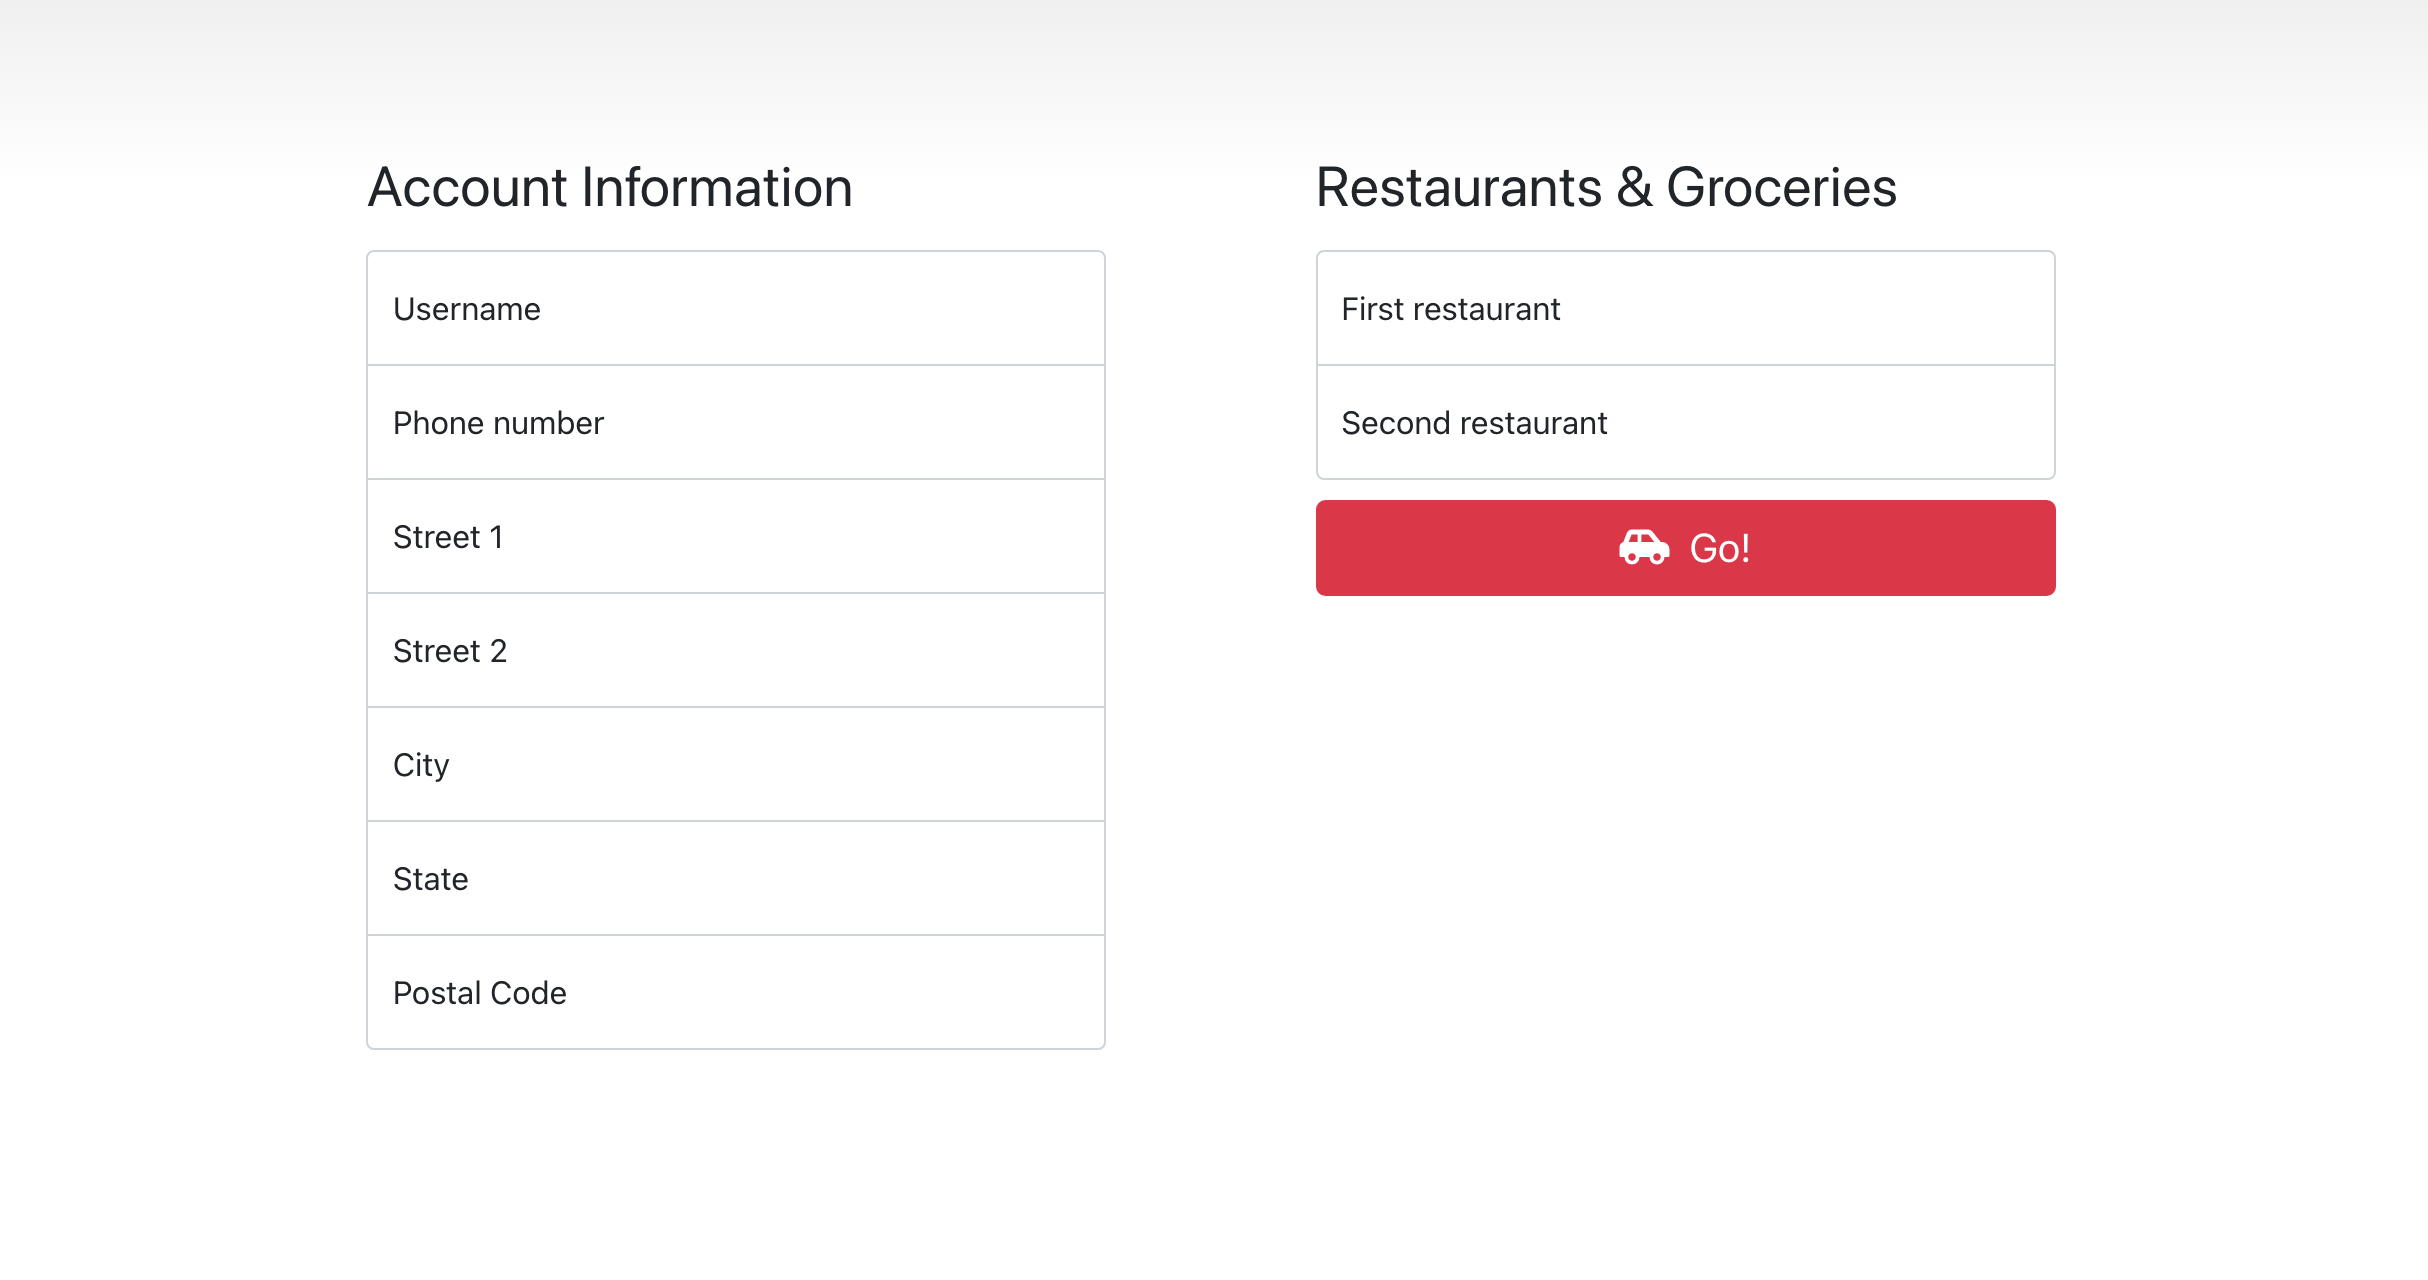
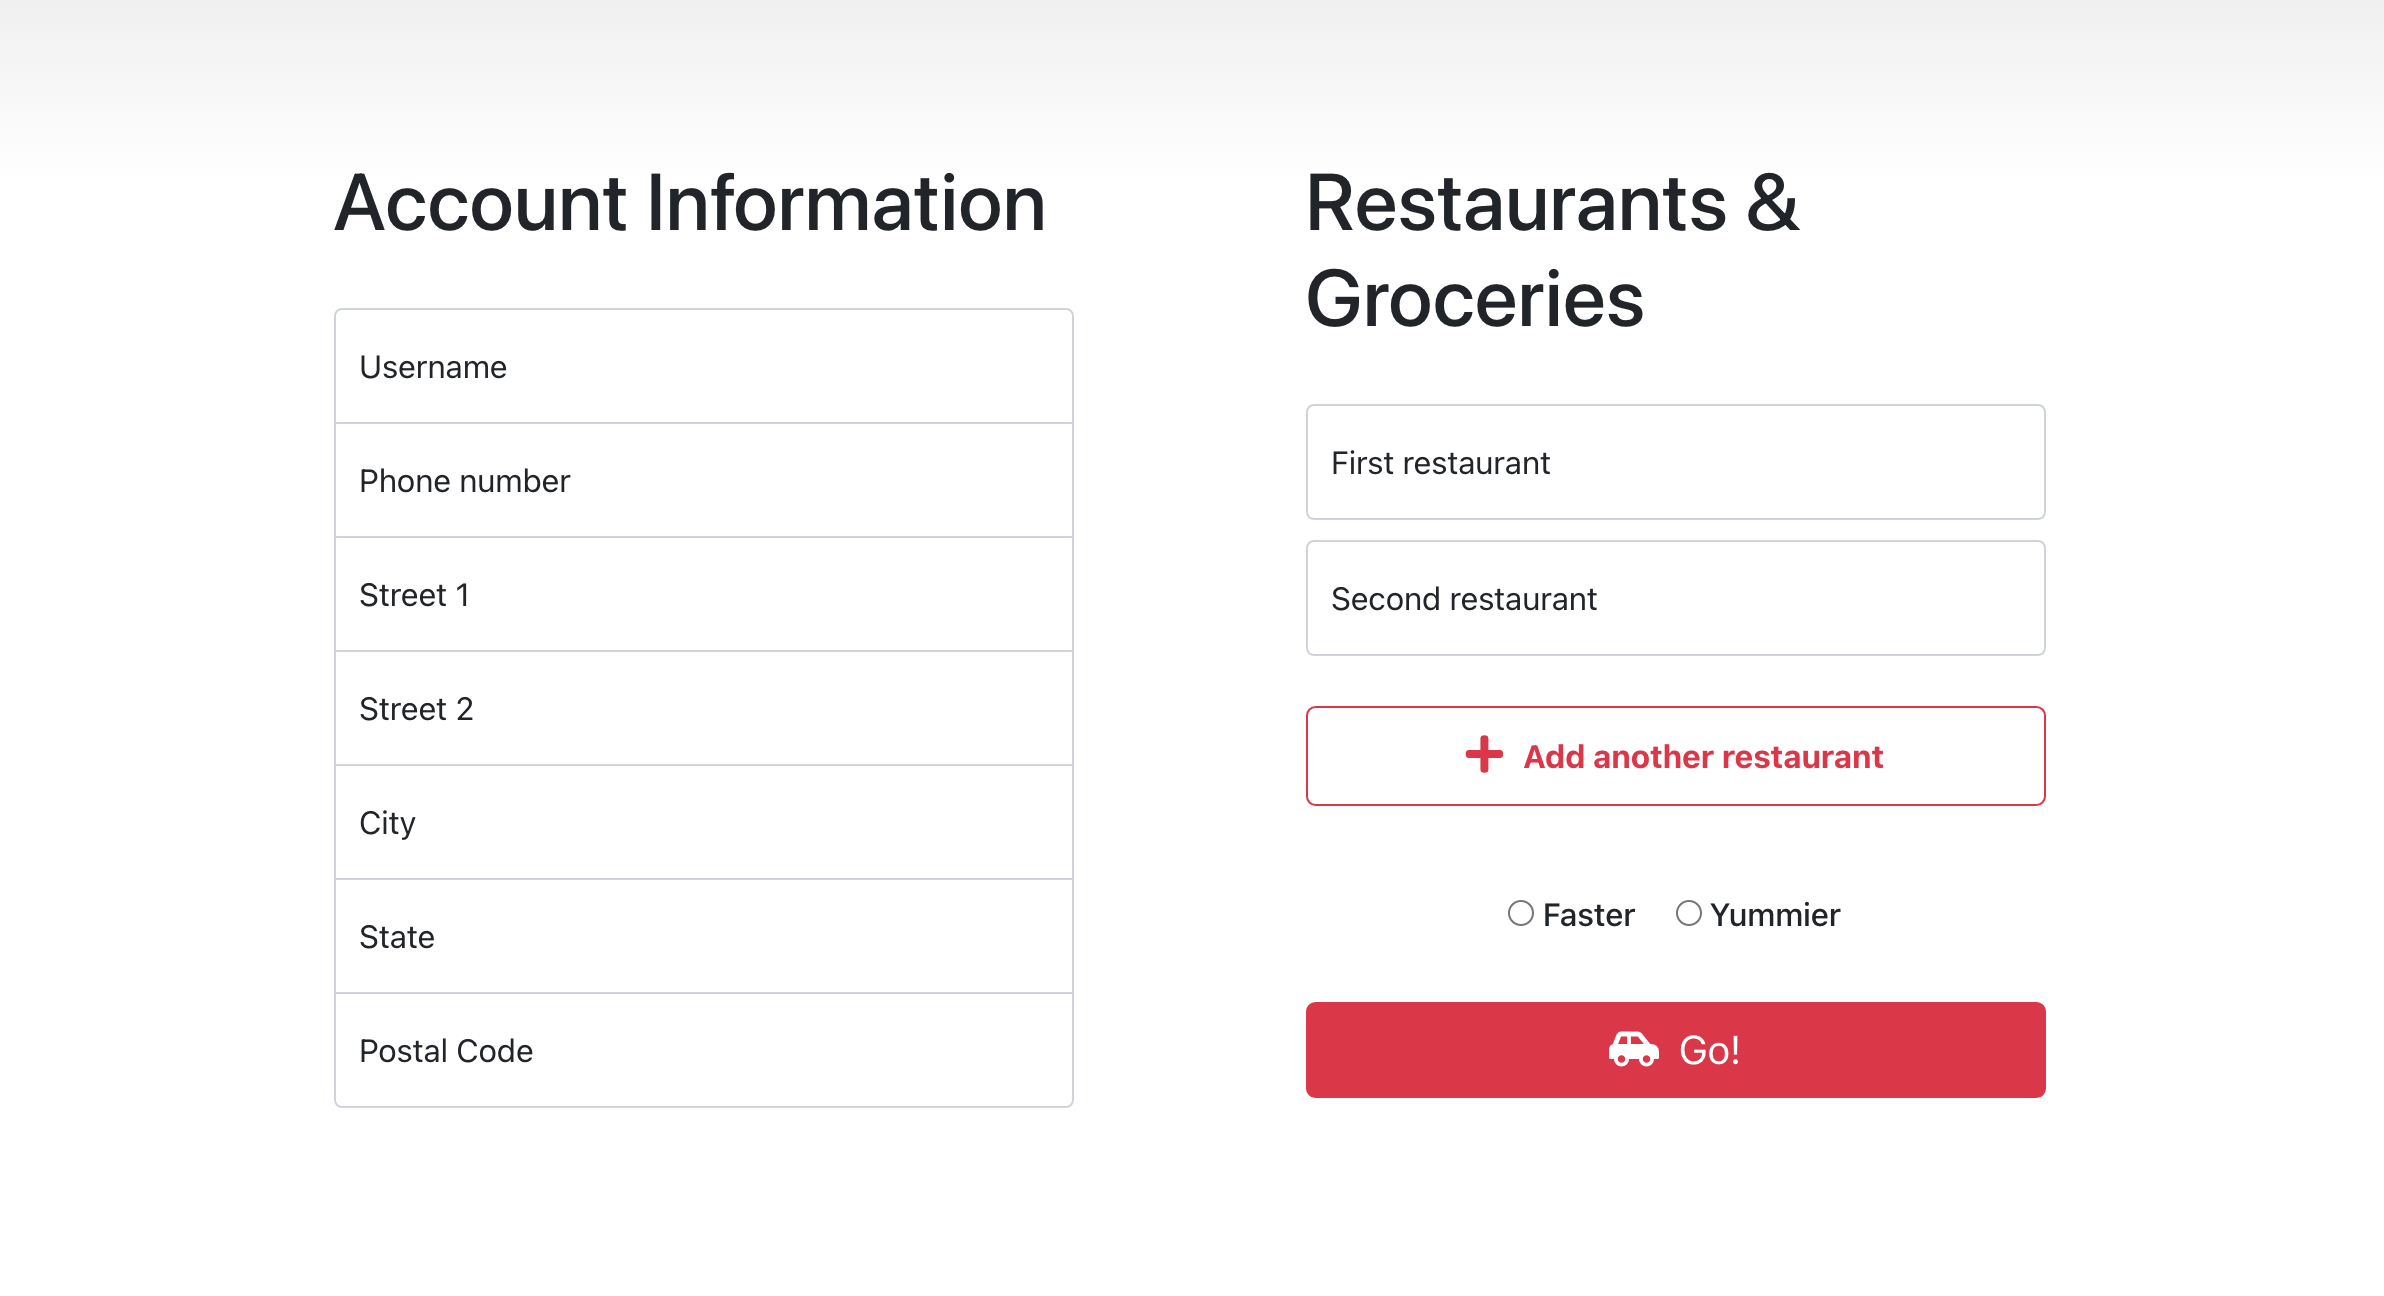
Update start page styles

diff --git a/client/src/components/NavBar.js b/client/src/components/NavBar.js
@@ -54,7 +54,7 @@ function NavBar(props) {
             <i className="fas fa-plus-circle"></i>
             <li>
               <button
-                className="btn btn-large btn-primary"
+                className="btn btn-large btn-danger"
                 onClick={props.onSubmit}
               >
                 Search

diff --git a/client/src/components/Start.css b/client/src/components/Start.css
@@ -112,6 +112,7 @@ input[id="Second restaurant"] {
 }
 
 .new-restaurant {
+  margin-top: 15px;
   margin-bottom: 10px;
   font-size: 1rem;
   font-weight: bold;
@@ -124,7 +125,7 @@ input[id="Second restaurant"] {
 }
 
 .mode-container {
-  margin: 30px 0;
+  margin: 32px 0;
   text-align: center;
 }
 

diff --git a/client/src/components/Start.js b/client/src/components/Start.js
@@ -147,7 +147,6 @@ function Start(props) {
               <i class="fas fa-plus fa-lg"></i>Add another restaurant
             </button>
           </div>
-
           <div className="mode-container">
             <div className="radio-input">
               <label>

diff --git a/client/src/components/Result.js b/client/src/components/Result.js
@@ -52,7 +52,7 @@ function Result(props) {
         </p>
         <button
           type="button"
-          className="w-100 btn btn-lg btn-success"
+          className="w-100 btn btn-lg btn-danger"
           onClick={props.onOrder}
         >
           Order

diff --git a/client/src/components/NavBar.css b/client/src/components/NavBar.css
@@ -10,3 +10,7 @@ body {
 .nav-item {
     margin-right: 20px;
 }
+
+.navbar-brand {
+    font-weight: bold;
+}

diff --git a/flask-server/googlemap.py b/flask-server/googlemap.py
@@ -3,9 +3,10 @@ import urllib3
 from urllib.parse import quote
 from itertools import permutations
 
-api_key = "AIzaSyBaFmPjFOZznxmoi9f7pEmyCYit2Si8YGk"
+api_key = "AIzaSyD0wyr72_R-L6zVrVBso0skDkUN5QLygPE"
 
-def distance_matrix(origin, destination_list, depature_time = "now"):
+
+def distance_matrix(origin, destination_list, depature_time="now"):
     origin = quote(origin)
     if len(destination_list) == 1:
         destination = quote(destination_list[0])
@@ -14,11 +15,12 @@ def distance_matrix(origin, destination_list, depature_time = "now"):
 
     url = f"https://maps.googleapis.com/maps/api/distancematrix/json?origins={origin}&destinations={destination}&departure_time={depature_time}&key={api_key}"
 
-    payload={}
+    payload = {}
     headers = {}
     response = requests.request("GET", url, headers=headers, data=payload)
     # distance_matrix = response.json()
     return response.json()
+
 
 def best_routes(origin, destination_list):
     min_time = 1e99
@@ -30,11 +32,19 @@ def best_routes(origin, destination_list):
     for route in possible_routes:
         traveltime = 0
         print(route)
-        traveltime = distance_matrix(origin, route[0])['rows'][0]['elements'][0]['duration']['value'] #first leg
+        traveltime = distance_matrix(origin, route[0])["rows"][0]["elements"][0][
+            "duration"
+        ][
+            "value"
+        ]  # first leg
         for idx, destination in enumerate(route[0:-1]):
-            traveltime += distance_matrix(route[idx], route[idx+1])['rows'][0]['elements'][0]['duration']['value']
+            traveltime += distance_matrix(route[idx], route[idx + 1])["rows"][0][
+                "elements"
+            ][0]["duration"]["value"]
         total_traveltime_list.append(traveltime)
-    sorted_routes = sorted(possible_routes, key = lambda x:total_traveltime_list[possible_routes.index(x)])
+    sorted_routes = sorted(
+        possible_routes, key=lambda x: total_traveltime_list[possible_routes.index(x)]
+    )
     sorted_traveltime_list = sorted(total_traveltime_list)
 
     print(possible_routes, total_traveltime_list)
@@ -43,15 +53,14 @@ def best_routes(origin, destination_list):
     travel_time = sorted_traveltime_list[0]
 
     return best_route, travel_time
-    
+
 
 def finding_directions(routes):
     directions_response = []
     for (origin, destination) in routes:
         url = f"https://maps.googleapis.com/maps/api/directions/json?origin={origin}&destination={destination}&key={api_key}"
-        payload={}
+        payload = {}
         headers = {}
         response = requests.request("GET", url, headers=headers, data=payload)
         directions_response.append(response)
     return [element.json() for element in directions_response]
-
